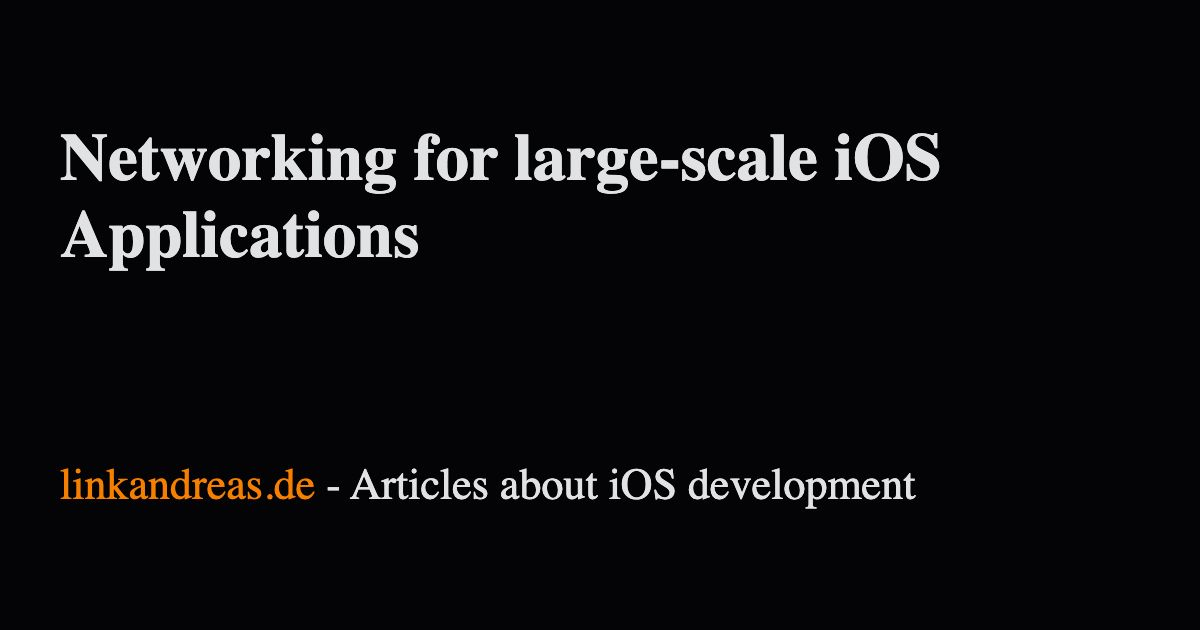
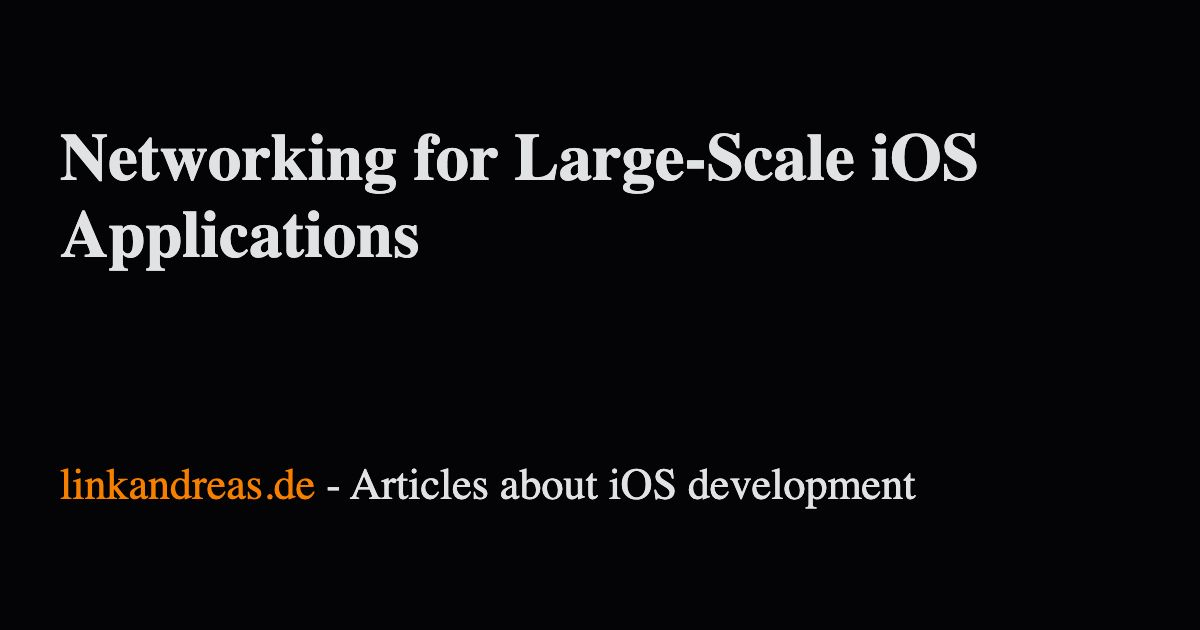
Update Headline

Changed region(s): [[0.4317, 0.2111, 0.8325, 0.3317]]

diff --git a/src/data/ArticleData.js b/src/data/ArticleData.js
@@ -11,7 +11,7 @@ const articles = [
         id: '2024-03-16',
         date: rfc822Date(new Date('2024-03-16')),
         markdown: article6,
-        title: 'Networking for large-scale iOS Applications',
+        title: 'Networking for Large-Scale iOS Applications',
         description: `Networking serves as the backbone of mobile applications, 
             facilitating seamless communication and enabling rich user experiences. 
             However, it also introduces complexity, especially when dealing with 

diff --git a/src/data/articles/16_03_2024.md b/src/data/articles/16_03_2024.md
@@ -1,4 +1,4 @@
-# Networking for large-scale iOS Applications
+# Networking for Large-Scale iOS Applications
 
 Networking serves as the backbone of mobile applications, facilitating seamless communication and enabling rich user experiences. However, it also introduces complexity, especially when dealing with modular applications that are built from independent features. 
 
